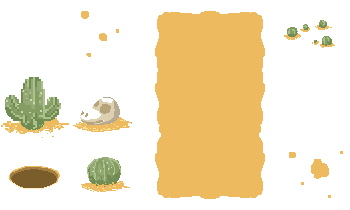
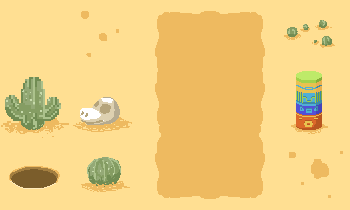
more obstacles added

diff --git a/yeha-noha.js b/yeha-noha.js
@@ -37,8 +37,8 @@ YehaNoha.prototype = {
 		this.obstacles = [];
 		var col = 0;
 
-		['hole', 'skull', 'mexican_cactus', 'cactus', 'many_cactus'].each(function(n){
-			self.obstacles.push(new YehaNoha.obstacle(n, YN._instance.options.col_size*col, YN._instance.options.col_size*col));
+		['hole', 'skull', 'mexican_cactus', 'cactus', 'many_cactus', 'dust', 'monument'].each(function(n){
+			self.obstacles.push(new YehaNoha.obstacle(n, col));
 			col++;
 		});
 
@@ -89,6 +89,8 @@ YehaNoha.env = function(){
 };
 YehaNoha.env.prototype = {
 	draw: function(ctx){
+		return;
+
 		var col_size = YN._instance.options.col_size;
 		var i=0;
 		for(; i < YN._instance.options.col_x; i++){
@@ -135,9 +137,9 @@ YehaNoha.player = function(id, options){
 	this.on_action = false;
 
 	this.id = id;
-	this.options = extend(options, {
+	this.options = extend({
 		position: 'left'
-	});
+	}, options);
 	this.spr_name = '_invok';
 	this.current_spr = 0;
 };
@@ -176,18 +178,22 @@ YehaNoha.player.prototype = {
 	}
 };
 /* obstacles */
-YehaNoha.obstacle = function(type_name, x, y){
+YehaNoha.obstacle = function(type_name, col){
 	this.type_name = type_name;
-	this.translate = {
-		x: 0, y: 0
+	this.sprite = YN._obstacles[this.type_name];
+	this.translate = { x: 0, y: 0 };
+	this.col = col;
+
+	if( undefined != this.sprite.tick ){
+		to(this, {
+			tick: this.sprite.tick
+		}, this.sprite.tick_fps || 60);
 	};
-	this.posX = x;
-	this.posY = y;
 };
 YehaNoha.obstacle.prototype = {
 	draw: function(ctx){
 		var instance = YN._instance;
-		sprite_part(instance.assets.env[0], ctx, YN._obstacles[this.type_name], { x: this.posX+this.translate.x, y: this.posY+this.translate.y }, instance.options.col_size, instance.col_scale);
+		sprite_part(instance.assets.env[0], ctx, this.sprite, { x: this.col*instance.options.col_size+this.translate.x, y: 0*instance.options.col_size+this.translate.y }, instance.options.col_size, instance.col_scale);
 	}
 };
 
@@ -205,7 +211,10 @@ var YN = {
 		hole: {
 			x: 9, y: 166,
 			width: 51, height: 23,
-			dy: 20
+			dy: 10,
+			tick: function(req){
+				
+			}
 		},
 		skull: {
 			x: 73, y: 97,
@@ -225,6 +234,27 @@ var YN = {
 			x: 284, y: 20,
 			width: 51, height: 28,
 			dy: 3
+		},
+		dust: {
+			x: 289, y: 151,
+			width: 54, height: 47,
+			tick: function(){
+				if( this.state == undefined ){
+					this.state = true;
+				}
+				if( ! this.state ){
+					extend(this.sprite, { x: 289, y: 151 });
+				} else {
+					extend(this.sprite, { x: 74, y: 10 });
+				}
+
+				this.state = !this.state;
+			},
+			tick_fps: 5
+		},
+		monument: {
+			x: 291, y: 71,
+			width: 38, height: 63
 		},
 	},
 
@@ -250,9 +280,7 @@ function set(obj, attrs){
 /* obj2 to obj1 -> only if the property doesn't exist */
 function extend(obj1, obj2){
 	for(var prop in obj2){
-		if( obj1[prop] == undefined ){
-			obj1[prop] = obj2[prop];
-		}
+		obj1[prop] = obj2[prop];
 	}
 	return obj1;
 };
